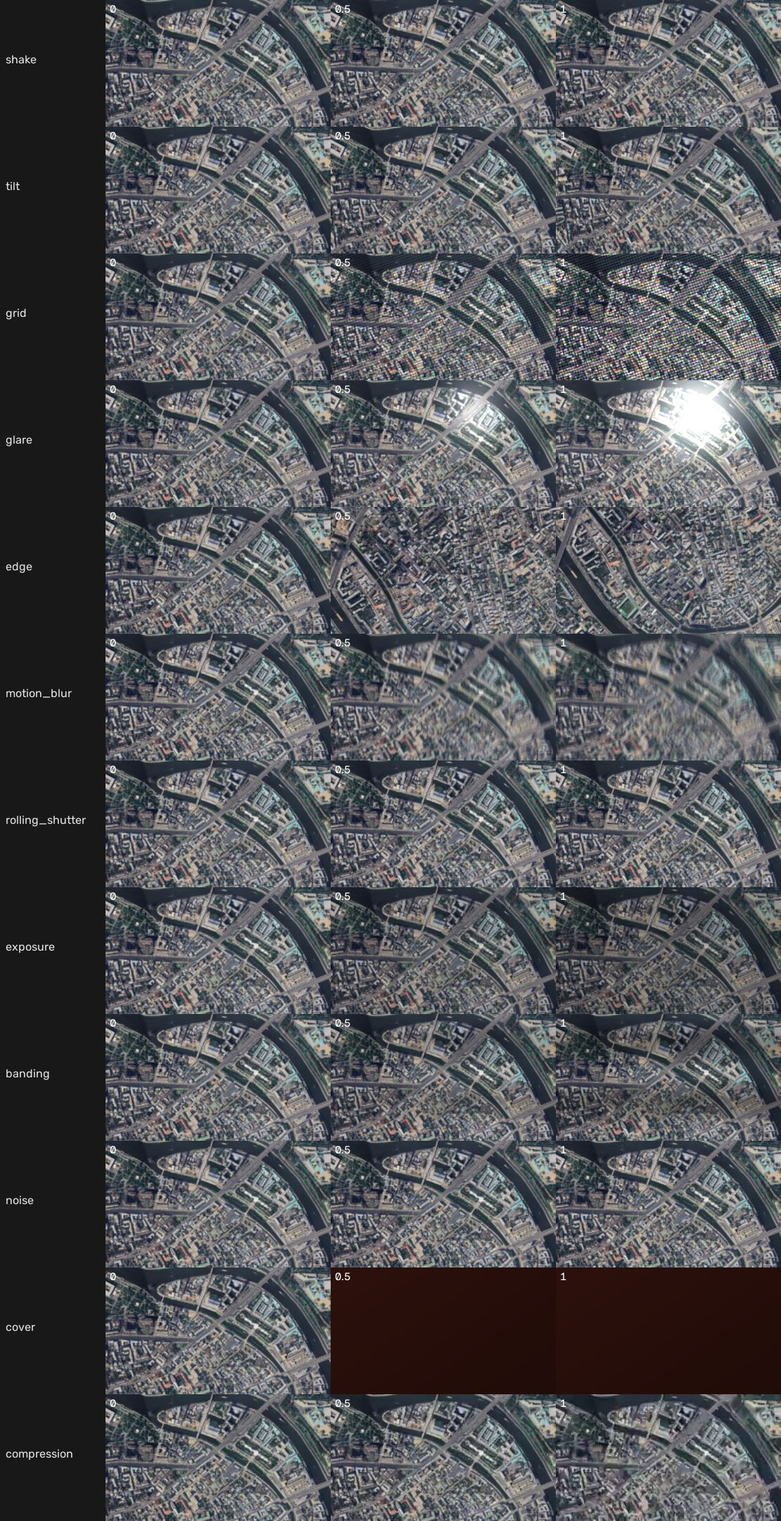
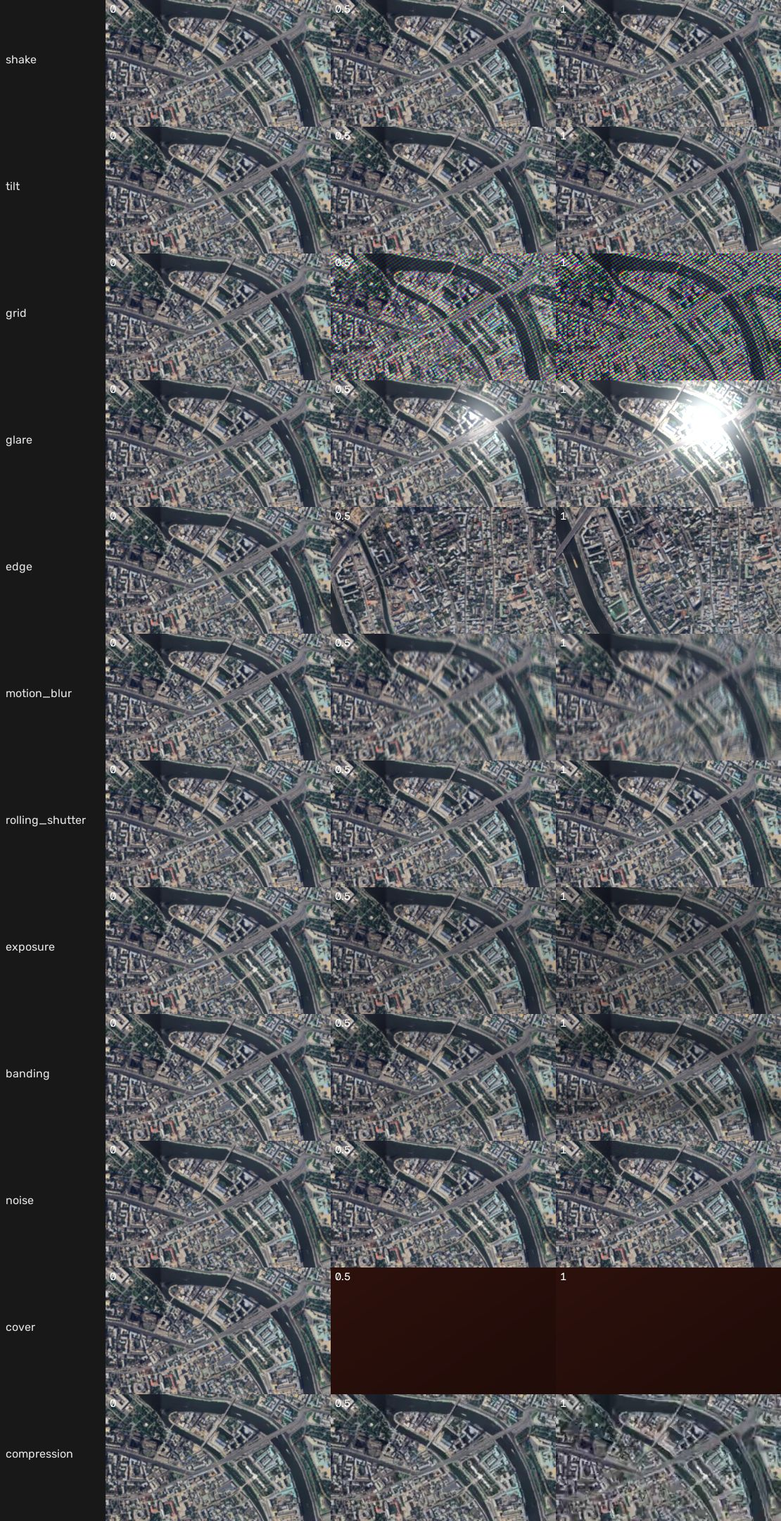
M2-08: README after the review (conventions, folder replacement, supersampling caveat, re-measured table) and the regenerated check sheet

diff --git a/README.md b/README.md
@@ -1022,7 +1022,10 @@ Each effect has a strength from 0 to 1 and a seed. They are modelled physically 
   blur, auto-exposure, refresh banding, sensor noise, a finger over the lens (`lens_covered` in the truth),
   and H.264 compression.
 
-The `calm`, `hard` and `jam` presets mirror M2-01's three takes.
+The `calm`, `hard` and `jam` presets mirror M2-01's three takes. The truth's pitch, roll and altitude mean what
+they mean in the Irpin flights. A take replaces only an empty folder or an earlier simulated take, never a real
+flight. Supersampling (`--supersample`, default 2) approximates the sensor's averaging: at 2, about 15% of the
+moiré comes from the sampling itself; 3 or 4 is more faithful, and slower.
 
 ![Check sheet: each effect at strength 0, 0.5 and 1](results/m2-08/sheet.jpg)
 
@@ -1038,18 +1041,18 @@ the scale rule, the window search). Rendering times are for an M-series Mac.
 
 | map | preset | localized | wrong | error px median / p95 / max | render |
 |---|---|---|---|---|---|
-| task | calm | 20/20 | 0 | 0.36 / 0.92 / 0.97 | 43 s |
-| task | hard | 20/20 | 0 | 0.45 / 3.13 / 4.32 | 87 s |
-| task | jam | 18/20 | 0 | 0.36 / 0.92 / 0.97 | 42 s |
-| Irpin 2025 | calm | 20/20 | 0 | 0.37 / 0.83 / 0.90 | 41 s |
-| Irpin 2025 | hard | 20/20 | 0 | 0.57 / 1.55 / 1.63 | 85 s |
-| Irpin 2025 | jam | 18/20 | 0 | 0.37 / 0.84 / 0.91 | 40 s |
+| task | calm | 20/20 | 0 | 0.42 / 1.12 / 1.24 | 40 s |
+| task | hard | 20/20 | 0 | 0.42 / 1.08 / 2.07 | 74 s |
+| task | jam | 18/20 | 0 | 0.44 / 1.14 / 1.24 | 41 s |
+| Irpin 2025 | calm | 20/20 | 0 | 0.41 / 0.98 / 1.15 | 41 s |
+| Irpin 2025 | hard | 20/20 | 0 | 0.48 / 1.22 / 1.82 | 76 s |
+| Irpin 2025 | jam | 18/20 | 0 | 0.43 / 1.00 / 1.15 | 42 s |
 
 What the table shows:
 - **Jam:** the two missed keyframes are exactly the two inside the covered stretch, and no wrong fix is
   accepted.
-- **Hard:** tilt, the rolling shutter and motion blur raise the worst errors to a few pixels. Even so, no frame
-  is lost or wrong.
+- **Hard:** tilt, the rolling shutter and motion blur raise the worst errors to about 2 px. Even so, no frame is
+  lost or wrong.
 - **What this does not show:** these numbers say the pipeline handles the geometry and the screen artefacts. They
   do not say a real take will score the same.
   - The screen here shows the map's own pixels at 100% zoom.
